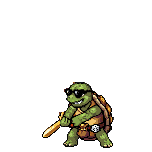
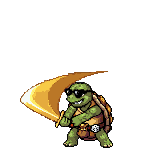
art(fortune): 攻击恢复原样 9 帧(旋身劈 + 剑弧保留, 用户「恢复，不用擦掉」)
撤回上一提交里按自编「不转身」删 5~7 帧与擦剑弧的处理; 招财进宝删白星盖脸帧保留。

Changed region(s): [[0.1316, 0.4474, 0.7105, 0.9211]]

diff --git a/tools/oneoff/fortune_seq_1126.py b/tools/oneoff/fortune_seq_1126.py
@@ -4,12 +4,11 @@
   待机 = Aseprite 后台脚本 tools/assetgen/ase/fortune_idle.lua 在定稿上逐帧改像素(呼吸 + 墨镜反光), 不是 AI
   其余 6 段 = PixelLab animate_image_pixminimax, 首尾钉定稿(死亡只钉首帧), 8 帧(+ 第 0 帧原图)
 排帧:
-  攻击: 用 0~4 + 7~8(第 5 / 6 帧 AI 让它转过身去、壳朝前, 违反「不转身」, 删掉); 命中 = 第 4 帧(剑劈到身前)
-  攻击 / 招财进宝: 只留跟身体连在一起的像素(AI 自己画的剑弧、白光星、撒出的金币是演示特效, 游戏另有特效画; pet_seq/README「裸帧」)
+  攻击: 原样 9 帧 = 后拧举剑 → 劈下(命中第 4 帧) → 顺势旋身一圈(5~6 朝右、7 正面)→ 回站姿; 剑弧原样保留
+        (用户 11-26 深夜「恢复，不用擦掉」—— 之前我按自己编的「不转身」删了 5~7 帧、擦了剑弧, 没有出处, 撤回)
+  招财进宝: 只留跟身体连在一起的像素(AI 画的撒出去的金币是演示特效; pet_seq/README「裸帧」)
   骰子: 抛在空中的骰子是动作本身, 保留
-  11-26 深夜自查(拼图逐帧看)补两处:
-  · 攻击命中帧(原第 4 帧)AI 画的剑弧跟剑连成一块, 连通块清不掉 ⇒ 按区域擦掉剑弧(头顶以上 / 头左侧 / 手左下),
-    再从待机第 0 帧拷剑身(护手 → 剑尖, 斜向左下)贴到手上 —— 脚本拷像素, 不是重画
+  11-26 深夜自查(拼图逐帧看):
   · 招财进宝原第 2~4 帧有 AI 画的大白星 / 小闪光(第 2 帧整张脸被星盖住, 第 4 帧闪光压在壳边上, 擦了会在壳上开洞)⇒ 删掉, 第 5 帧(同一举剑姿势、干净)停三拍
 一次性; 输出逐字节确定。
 """
@@ -54,30 +53,6 @@ def main_body(im: Image.Image) -> Image.Image:
     return out
 
 
-def fix_hit(im: Image.Image) -> Image.Image:
-    """攻击命中帧: 擦剑弧 + 从待机帧拷剑身(坐标在 4 倍网格图上量的, 152 帧坐标)"""
-    im = im.copy()
-    px = im.load()
-    for y in range(152):
-        for x in range(152):
-            if y <= 81 or (x <= 63 and 82 <= y <= 111) or (x <= 58 and 112 <= y <= 131):
-                px[x, y] = (0, 0, 0, 0)
-    for y in range(82, 89):             # 头顶左角压着的一截剑弧: 只擦非绿、非暗描边的像素
-        for x in range(63, 73):
-            c = px[x, y]
-            if c[3] >= 128 and not (c[1] > c[0] and c[1] > c[2]) and sum(c[:3]) > 150:
-                px[x, y] = (0, 0, 0, 0)
-    idle = Image.open(os.path.join(IDLE, "fortune_idle_00.png")).convert("RGBA").load()
-    dx, dy = -7, -6                     # 待机护手(66,125) → 命中帧手里(59,119)
-    for y in range(118, 147):
-        for x in range(44, 67):
-            c = idle[x, y]
-            if c[3] < 128 or (c[1] > c[0] and c[1] > c[2] + 20):   # 跳过透明与绿色(手)
-                continue
-            px[x + dx, y + dy] = c
-    return im
-
-
 def put(seg: str, frames: list) -> None:
     d = os.path.join(DST, seg)
     os.makedirs(d, exist_ok=True)
@@ -99,9 +74,7 @@ def main() -> None:
     os.makedirs(DST, exist_ok=True)
     put("idle", [Image.open(os.path.join(IDLE, "fortune_idle_%02d.png" % i)).convert("RGBA") for i in range(8)])
     put("run", ai("fE_walk", list(range(8))))
-    atk = ai("fE_atk", [0, 1, 2, 3, 4, 7, 8], clean=True)
-    atk[4] = fix_hit(atk[4])
-    put("attack", atk)
+    put("attack", ai("fE_atk", list(range(9))))
     put("death", ai("fE_die", list(range(9))))
     put("cast_fortuneDice", ai("fE_dice", list(range(9))))
     put("cast_fortuneAllIn", ai("fE_allin", list(range(8))))   # 末帧(第 8 帧)AI 画了撒出去的金币 —— 投币由游戏弹道画, 不要
